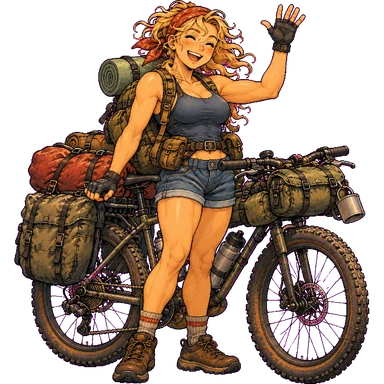
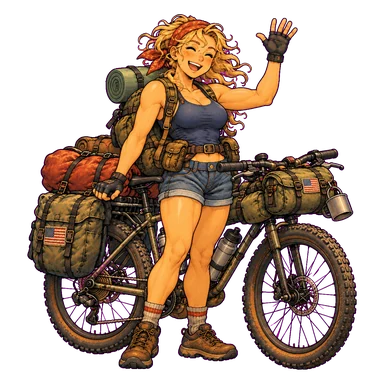
衣類に小物（サングラス・靴・ヘルメット）を追加、ハロルド卿→アーサー卿、キャミィの絵を差し替え
Claude-Session: https://claude.ai/code/session_01N9UH7aPas3bYDXNeJrASUj

diff --git a/index.html b/index.html
@@ -83,6 +83,7 @@ button:disabled{opacity:.45;cursor:not-allowed}
 .si{width:16px;height:16px;object-fit:contain}
 .card .nm{display:flex;align-items:center;gap:6px;min-width:0}
 .ci{width:28px;height:28px;flex:none;object-fit:contain}
+.slots4{display:grid;grid-template-columns:repeat(4,1fr);gap:5px;margin-bottom:8px}.slots4 .slot{border:1px dashed var(--line);border-radius:10px;min-height:76px;padding:4px 2px;display:flex;flex-direction:column;align-items:center;justify-content:center;gap:1px;text-align:center;font-size:.7rem;color:var(--muted)}.slots4 .slot.on{border:1px solid #d9a734;background:rgba(217,167,52,.12);color:var(--fg)}.slots4 .slot b{font-size:.68rem;line-height:1.2}.slots4 .slot i{font-style:normal;font-size:.62rem;color:var(--muted)}.slots4 .slot .ci{width:40px;height:40px}
 .subtabs{display:flex;gap:5px;flex-wrap:wrap;margin:0}
 .subtabs button{flex:1 1 0;min-width:22%;min-height:50px;padding:4px 2px;font-size:var(--fs-s);white-space:nowrap;display:flex;flex-direction:column;align-items:center;justify-content:center;gap:1px}
 .subtabs.pg button{min-height:38px;flex-direction:row;font-size:var(--fs-m);min-width:20%}
@@ -418,7 +419,7 @@ html:has(.overlay:not([hidden]):not(#ov-tut)),body:has(.overlay:not([hidden]):no
   <section class="panel" id="p-gear" hidden>
     <div class="subtabs" id="gear-tabs"><button data-sub="bike" aria-selected="true"><img loading="lazy" class="wi" src="img/icon_bike.webp" width="128" height="128" alt="">自転車</button><button data-sub="cloth" aria-selected="false"><img loading="lazy" class="wi" src="img/icon_cloth.webp" width="128" height="128" alt="">衣類</button><button data-sub="part" aria-selected="false"><img loading="lazy" class="wi" src="img/icon_part.webp" width="128" height="128" alt="">パーツ</button></div>
     <div class="campsec" data-sub="bike"><p class="hint">持っている自転車。新しいものは「店」で買えます。</p><div class="shop" id="eq-bike"></div></div>
-    <div class="campsec" data-sub="cloth" hidden><p class="hint">持っている衣類。気温に合わせて着替えます。</p><div class="shop" id="eq-cloth"></div></div>
+    <div class="campsec" data-sub="cloth" hidden><p class="hint">持っている衣類。ウェアは気温に合わせて着替えます。小物（目・足・頭）と合わせて4枠まで付けられます。</p><div class="shop" id="eq-cloth"></div></div>
     <div class="campsec" data-sub="part" hidden><p class="hint" id="slot-hint">パーツは4つまで付けられます。</p><div class="shop" id="eq-part"></div></div>
   </section>
 
@@ -794,7 +795,7 @@ const foodMax=()=>FOOD_MAX+(S&&S.parts?S.parts.reduce((a,x)=>a+((PARTS.find(p=>p
 const NAGANO={price:2000,max:3,hp:60,mp:30};
 const NAGANO_X={price:10000,max:1};// 長野県の補給食【極】（買える・1個まで・体力と気力が全回復）
 const GUMMY={max:3,hp:NAGANO.hp,mp:NAGANO.mp};// 着色料いっぱいのグミ（キャミィからの贈り物。赤マムシドリンク風の長野県の補給食と同じ効果。買えない）
-const TEA={max:3,hp:NAGANO.hp,mp:NAGANO.mp};// 英国産の紅茶（ハロルド卿からの贈り物。長野県の補給食と同じ効果。買えない）
+const TEA={max:3,hp:NAGANO.hp,mp:NAGANO.mp};// 英国産の紅茶（アーサー卿からの贈り物。長野県の補給食と同じ効果。買えない）
 const DANGO={max:3,hp:25,mp:10};// 文化祭の団子（ライバルからの贈り物。補給食と同じ効果。買えない）
 const BIKES=[
  {id:'mama',name:'ママチャリ',price:0,climb:2,rough:2,cruise:2,wx:3},
@@ -815,6 +816,18 @@ const CLOTHES=[
  {id:'winter',name:'冬ウェア',price:25000,lo:-10,hi:10},
  {id:'all',name:'オールシーズン高級ウェア',price:60000,lo:-5,hi:32},
 ];
+// 小物（衣類タブで装備。ウェアと合わせて4枠。目・足・頭は種類ごとに1つだけ）t: eye/foot/head、hit: 戦闘で受けるダメージ-
+const ACC=[
+ {id:'sg1',name:'サングラス',price:4000,t:'eye',wx:1},
+ {id:'sg2',name:'高性能サングラス',price:20000,t:'eye',wx:2,comfy:1},
+ {id:'shoe1',name:'サイクリングシューズ',price:18000,t:'foot',cruise:1,climb:1},
+ {id:'shoe2',name:'MTBシューズ',price:20000,t:'foot',rough:1,climb:1},
+ {id:'shoe3',name:'登山靴',price:30000,t:'foot',rough:2,wx:1},
+ {id:'hel1',name:'ヘルメット',price:8000,t:'head',hit:1},
+ {id:'hel2',name:'軽量ヘルメット',price:45000,t:'head',hit:1,climb:1},
+];
+const ACC_T={eye:'目',foot:'足',head:'頭'},ACC_SLOTS=4;// ウェア1＋小物3＝4枠
+const accOn=()=>(S.acc||[]).map(i=>ACC.find(a=>a.id===i)).filter(Boolean);
 const PARTS=[
  // ホイール：1つだけ装備できる（買うと入れ替わる）。カスタム（+段数）はできる
  {id:'tire',name:'MTB用ホイール',price:12000,rough:2,wh:1},
@@ -963,7 +976,7 @@ function title(f){let t=TITLES[0][1];for(const [n,s] of TITLES) if(f>=n) t=s;ret
 
 // ---------- state ----------
 let S=null;
-function newGame(HOME){INTRIP=false;LASTSAVE='';TS=null;trip=null;B=null;$('pop').hidden=true;S={turn:1,fame:0,stay:0,money:DEBUG?10000000:30000,hp:100,mp:100,home:HOME,loc:HOME,bike:'mama',cloth:'plain',parts:[],gear:{fire:null,shelter:null,tarp:null},owned:{bikes:['mama'],cloth:['plain'],parts:[],gear:[]},
+function newGame(HOME){INTRIP=false;LASTSAVE='';TS=null;trip=null;B=null;$('pop').hidden=true;S={turn:1,fame:0,stay:0,money:DEBUG?10000000:30000,hp:100,mp:100,home:HOME,loc:HOME,bike:'mama',cloth:'plain',acc:[],parts:[],gear:{fire:null,shelter:null,tarp:null},owned:{bikes:['mama'],cloth:['plain'],acc:[],parts:[],gear:[]},
   visits:Array(47).fill(0),fam:Array(47).fill(false),log:[],tl:[],forecast:null,sel:HOME,food:0,food2:0,food3:0,dango:0,gummy:0,tea:0,penId:'pen_tabi',avId:'av_hero',inf:{},plus:{},stats:{wins:0,posts:0,bestQ:0,tph:0,ev:0,tc:0,en:{}}};
   rollForecast();log(`春の週末。${PREF[HOME].name}の自宅から旅が始まる。`);save();}
 // ---------- セーブ ----------
@@ -995,11 +1008,12 @@ function load(){try{const s=localStorage.getItem('charicamp');if(!s)return null;
   o.owned=o.owned&&typeof o.owned==='object'?o.owned:{};
   o.owned.bikes=(Array.isArray(o.owned.bikes)?o.owned.bikes:[]).filter(x=>has(BIKES,x));if(!o.owned.bikes.includes('mama'))o.owned.bikes.unshift('mama');
   o.owned.cloth=(Array.isArray(o.owned.cloth)?o.owned.cloth:[]).filter(x=>has(CLOTHES,x));if(!o.owned.cloth.includes('plain'))o.owned.cloth.unshift('plain');
+  o.owned.acc=(Array.isArray(o.owned.acc)?o.owned.acc:[]).filter(x=>has(ACC,x));
   o.owned.parts=(Array.isArray(o.owned.parts)?o.owned.parts:[]).filter(x=>has(PARTS,x));
   o.owned.gear=(Array.isArray(o.owned.gear)?o.owned.gear:[]).filter(x=>has(GEAR_ITEMS,x));
   const pl=o.plus&&typeof o.plus==='object'?o.plus:{};o.plus={};for(const id of [...o.owned.bikes,...o.owned.parts]){const v=num(pl[id],0,0,3);if(v)o.plus[id]=v;}
   if(!o.owned.bikes.includes(o.bike))o.bike=o.owned.bikes[0];if(!o.owned.cloth.includes(o.cloth))o.cloth=o.owned.cloth[0];
-  for(const k of ['bikes','cloth','parts','gear'])o.owned[k]=[...new Set(o.owned[k])];
+  for(const k of ['bikes','cloth','acc','parts','gear'])o.owned[k]=[...new Set(o.owned[k])];{const seen=new Set();o.acc=(Array.isArray(o.acc)?o.acc:[]).filter(x=>{const a=ACC.find(z=>z.id===x);if(!a||!o.owned.acc.includes(x)||seen.has(a.t))return false;seen.add(a.t);return true;}).slice(0,ACC_SLOTS-1);}
   o.parts=[...new Set((Array.isArray(o.parts)?o.parts:[]).filter(x=>o.owned.parts.includes(x)))];{const seen=new Set();o.parts=o.parts.filter(x=>{const g=xg(PARTS.find(p=>p.id===x));if(!g)return true;if(seen.has(g))return false;seen.add(g);return true;});}o.parts=o.parts.slice(0,partSlots(o.bike,o.gear));
   const g=o.gear&&typeof o.gear==='object'?o.gear:{};o.gear={};for(const k of ['fire','shelter','tarp'])o.gear[k]=GEAR_ITEMS.some(x=>x.slot===k&&x.id===g[k]&&o.owned.gear.includes(x.id))?g[k]:null;
   if(o.gear.fire==='fire4'&&o.gear.shelter!=='sh5')o.gear.fire=null;
@@ -1029,7 +1043,8 @@ function calLabel(t){const c=calendar(t);return `${c.year}年目${c.month}月第
 function bikeStats(){const b=BIKES.find(x=>x.id===S.bike);const st={climb:b.climb,rough:b.rough,cruise:b.cruise,wx:b.wx,photo:0,comfy:0,fold:!!b.fold};
   const bl=plv(b.id);if(bl)for(const k of bikeBoost(b))st[k]+=bl;// カスタム：得意な上位2能力が+段数
   const gx=gearFx();st.climb+=gx.climb;st.cruise+=gx.cruise;// DCF（超軽量）のギア
-  for(const pid of S.parts){const p=PARTS.find(x=>x.id===pid);for(const k of ['climb','rough','cruise','wx','photo','comfy']) if(p[k]) st[k]+=p[k]+plv(pid);}return st;}
+  for(const pid of S.parts){const p=PARTS.find(x=>x.id===pid);for(const k of ['climb','rough','cruise','wx','photo','comfy']) if(p[k]) st[k]+=p[k]+plv(pid);}
+  for(const a of accOn())for(const k of ['climb','rough','cruise','wx','comfy'])if(a[k])st[k]+=a[k];return st;}
 // ---------- カスタム（自転車・パーツを+1〜+3に改造） ----------
 const STATJ={climb:'登坂',rough:'悪路',cruise:'巡航',wx:'耐候',photo:'写真',comfy:'気力消費'};
 // 折りたたみ（チタン製折りたたみ自転車・分割式チタン製グラベルロード）専用の「輪行カスタム」：輪行費の割合が段階的に下がる（素は半額）
@@ -1237,21 +1252,22 @@ function renderDetail(){const p=PREF[S.sel],f=S.forecast[p.id],ti=travelInfo(p),
 function renderList(){$('sitelist').innerHTML=PREF.map(p=>`<button data-id="${p.id}" class="${p.id===S.loc?'cur':''}">${p.name} ${S.fam[p.id]?'🏅':S.visits[p.id]?'✔'.repeat(Math.min(needV(p),S.visits[p.id])):''}<small>${p.site}</small></button>`).join('');
   $('sitelist').querySelectorAll('button').forEach(b=>b.onclick=()=>{S.sel=+b.dataset.id;renderSel();$('map').scrollIntoView({block:'start'});});}
 
-function owns(kind,id){return S.owned[kind==='bike'?'bikes':kind==='cloth'?'cloth':kind==='gear'?'gear':'parts'].includes(id);}
-function isEq(kind,item){return kind==='bike'?S.bike===item.id:kind==='cloth'?S.cloth===item.id:kind==='gear'?S.gear[item.slot]===item.id:S.parts.includes(item.id);}
+function owns(kind,id){return S.owned[kind==='bike'?'bikes':kind==='cloth'?'cloth':kind==='acc'?'acc':kind==='gear'?'gear':'parts'].includes(id);}
+function isEq(kind,item){return kind==='bike'?S.bike===item.id:kind==='cloth'?S.cloth===item.id:kind==='acc'?(S.acc||[]).includes(item.id):kind==='gear'?S.gear[item.slot]===item.id:S.parts.includes(item.id);}
 // 新しいギアの絵が届くまでは、近い既存のアイコンを代わりに表示する（読み込みに失敗したときだけ切り替わる）
 const ICON_FB={};
 addEventListener('error',e=>{const i=e.target;if(i&&i.tagName==='IMG'&&i.dataset&&i.dataset.fb){const f='img/'+i.dataset.fb+'.webp';i.dataset.fb='';i.src=f;}},true);
 function card(item,kind,mode){const eq=isEq(kind,item),own=owns(kind,item.id);
   const spec=kind==='bike'?`登坂${bv(item,'climb')} 悪路${bv(item,'rough')} 巡航${bv(item,'cruise')} 耐候${bv(item,'wx')}${item.fold?` 輪行費×${RK_RATE[rkLv(item.id)]}`:''}`:
    kind==='cloth'?`快適 ${item.lo}℃〜${item.hi}℃`:
+   kind==='acc'?`【${ACC_T[item.t]}】`+['climb','rough','cruise','wx','comfy'].filter(k=>item[k]).map(k=>STATJ[k]+(k==='comfy'?'-':'+')+item[k]).concat(item.hit?[`被ダメージ-${item.hit}`]:[]).join(' ')+`（${ACC_T[item.t]}は1つだけ装備）`:
    kind==='gear'?[item.mp?`気力+${item.mp}`:'',item.hp?`体力+${item.hp}`:'',item.photo?`写真+${item.photo}`:'',item.guard?`雨ガード${Math.round(item.guard*100)}%`:'',item.climb?`登坂+${item.climb}`:'',item.cruise?`巡航+${item.cruise}`:'',item.winter?'冬のみ有効':'',item.req?`要：${(GEAR_ITEMS.find(x=>x.id===item.req)||{}).name}`:''].filter(Boolean).join(' '):
    (item.comp?'コンポ（1つだけ装備） ':'')+(item.wh?'ホイール（1つだけ装備） ':'')+(item.rack?`ラック（1つだけ装備） 補給食の上限+${item.food}`:'')+(item.front?'フロントキャリア（1つだけ装備） ':'')+(item.gift?'インフルエンサーからの贈り物 ':'')+(item.gift&&item.food?`補給食の上限+${item.food} `:'')+(item.anti?(item.anti==='bear'?'クマから受ける被害が半分':'暴走車・暴走バイクから受ける被害が半分'):Object.entries(item).filter(([k])=>['climb','rough','cruise','wx','photo','comfy'].includes(k)).map(([k,v])=>({climb:'登坂',rough:'悪路',cruise:'巡航',wx:'耐候',photo:'写真',comfy:'気力消費'}[k]+(k==='comfy'?'-':'+')+v)).join(' '));
   let act='';
   if(mode==='shop'){act=own?`<span class="pill">所持</span>`:`<button data-act="buy" ${S.money>=item.price?'':'disabled'}>購入 ${yen(item.price)}</button>`;}
-  else if(eq)act=(kind==='part'||kind==='gear')?`<button data-act="unequip">外す</button>`:`<span class="pill">装備中</span>`;
+  else if(eq)act=(kind==='part'||kind==='gear'||kind==='acc')?`<button data-act="unequip">外す</button>`:`<span class="pill">装備中</span>`;
   else act=`<button data-act="equip" ${kind==='part'&&S.parts.length>=partSlots(S.bike)&&!(xg(item)&&S.parts.some(x=>xg(PARTS.find(p=>p.id===x))===xg(item)))||kind==='gear'&&item.req&&S.gear.shelter!==item.req?'disabled':''}>装備</button>`;
-  return `<div class="card ${eq?'eq':''}" data-kind="${kind}" data-id="${item.id}"><div class="name"><span class="nm"><img loading="lazy" class="ci" ${(kind==='gear'||kind==='part')&&ICON_FB[item.id]?`data-fb="${ICON_FB[item.id]}" `:''}src="img/${kind==='gear'?'icon_g_'+item.id:(kind==='part'?'part_'+item.id:kind==='cloth'?'cloth_'+item.id:'icon_bike_'+item.id)}.webp" width="28" height="28" alt="">${item.name}${(kind==='bike'||kind==='part')&&plv(item.id)?` <b>+${plv(item.id)}</b>`:''}</span>${act}</div><div class="spec">${spec}</div></div>`;}
+  return `<div class="card ${eq?'eq':''}" data-kind="${kind}" data-id="${item.id}"><div class="name"><span class="nm"><img loading="lazy" class="ci" ${kind==='acc'?'data-fb="cloth_plain" ':(kind==='gear'||kind==='part')&&ICON_FB[item.id]?`data-fb="${ICON_FB[item.id]}" `:''}src="img/${kind==='gear'?'icon_g_'+item.id:(kind==='part'?'part_'+item.id:kind==='cloth'?'cloth_'+item.id:kind==='acc'?'acc_'+item.id:'icon_bike_'+item.id)}.webp" width="28" height="28" alt="">${item.name}${(kind==='bike'||kind==='part')&&plv(item.id)?` <b>+${plv(item.id)}</b>`:''}</span>${act}</div><div class="spec">${spec}</div></div>`;}
 let PGRP='rack';// パーツ欄のタブ：rack=ラック類／comp=コンポ類／wheel=ホイール／etc=その他（残りすべて）
 const grpOf=i=>i.rack||i.front?'rack':i.comp?'comp':i.wh?'wheel':'etc';// 前後ラック／コンポ／ホイール＋タイヤ／その他（エアロバー・フェンダー・熊スプレー・カメラ等すべて）
 const PG_TABS=[['rack','ラック類'],['comp','コンポ類'],['wheel','ホイール'],['etc','その他']];
@@ -1259,6 +1275,9 @@ const pgTabs=()=>`<div class="subtabs pg">${PG_TABS.map(([g,t])=>`<button data-p
 function renderShop(){if(S.parts.length>partSlots(S.bike))S.parts=S.parts.slice(0,partSlots(S.bike));{const h=$('slot-hint');if(h)h.textContent=`パーツは${partSlots(S.bike)}つまで付けられます（自転車が高いほど増えます。DCFのテント・タープは軽いので、1つにつき+1）。`;}const lists={bike:BIKES,cloth:CLOTHES,part:PARTS};
   for(const [k,l0] of Object.entries(lists)){const l=k==='part'?l0.filter(i=>grpOf(i)===PGRP):l0,tabs=k==='part'?pgTabs():'';$('shop-'+k).innerHTML=tabs+l.filter(i=>!i.gift).map(i=>card(i,k,'shop')).join('');
     const own=l.filter(i=>owns(k,i.id));$('eq-'+k).innerHTML=tabs+(own.length?own.map(i=>card(i,k,'equip')).join(''):'<div class="hint">なし</div>');}
+  $('shop-cloth').insertAdjacentHTML('beforeend',ACC.map(i=>card(i,'acc','shop')).join(''));
+  {const on=accOn(),w=CLOTHES.find(c=>c.id===S.cloth),sl=[[w.name,'cloth_'+w.id,'ウェア'],...on.map(a=>[a.name,'acc_'+a.id,ACC_T[a.t]])];while(sl.length<ACC_SLOTS)sl.push(null);
+   $('eq-cloth').innerHTML=`<div class="slots4">${sl.map(x=>x?`<div class="slot on"><img class="ci" src="img/${x[1]}.webp" width="40" height="40" alt="" onerror="this.onerror=null;this.src='img/cloth_plain.webp'"><b>${x[0]}</b><i>${x[2]}</i></div>`:'<div class="slot"><i>あき</i></div>').join('')}</div>`+$('eq-cloth').innerHTML+ACC.filter(i=>owns('acc',i.id)).map(i=>card(i,'acc','equip')).join('');}
   for(const slot of Object.keys(GEAR)){const l=GEAR_ITEMS.filter(i=>i.slot===slot);$('shop-'+slot).innerHTML=l.map(i=>card(i,'gear','shop')).join('');
     const own=l.filter(i=>owns('gear',i.id));$('eq-'+slot).innerHTML=noneCard(slot)+own.map(i=>card(i,'gear','equip')).join('');}
   $('shop-food').innerHTML=`<div class="card"><div class="name"><span class="nm"><img loading="lazy" class="ci" src="img/icon_food.webp" width="28" height="28" alt="">補給食</span><span class="cnt${S.food?' has':''}"><b>${S.food}</b>/${foodMax()}</span><button data-food="1" ${S.money>=FOOD_PRICE&&S.food<foodMax()?'':'disabled'}>購入 ${yen(FOOD_PRICE)}</button></div><div class="spec">試練の最中に食べると体力+25 気力+10。</div></div><div class="card"><div class="name"><span class="nm"><img loading="lazy" class="ci" src="img/icon_food_nagano.webp" width="28" height="28" alt="" onerror="this.onerror=null;this.src='img/icon_food.webp'">長野県の補給食</span><span class="cnt${S.food2?' has':''}"><b>${S.food2}</b>/${NAGANO.max}</span><button data-food2="1" ${S.money>=NAGANO.price&&S.food2<NAGANO.max?'':'disabled'}>購入 ${yen(NAGANO.price)}</button></div><div class="spec">赤マムシドリンク風の元気ドリンク。体力+${NAGANO.hp} 気力+${NAGANO.mp}。</div></div><div class="card"><div class="name"><span class="nm"><img loading="lazy" class="ci" src="img/icon_food_nagano.webp" width="28" height="28" alt="" onerror="this.onerror=null;this.src='img/icon_food.webp'">長野県の補給食【極】</span><span class="cnt${S.food3?' has':''}"><b>${S.food3}</b>/${NAGANO_X.max}</span><button data-food3="1" ${S.money>=NAGANO_X.price&&S.food3<NAGANO_X.max?'':'disabled'}>購入 ${yen(NAGANO_X.price)}</button></div><div class="spec">長野県の元気ドリンクの極み。体力と気力が全回復。</div></div>`;renderForge();}
@@ -1293,11 +1312,11 @@ function noneCard(slot){const on=!S.gear[slot],[n,s]=NONE_TXT[slot];
 function shopClick(e){const pg=e.target.closest('button[data-pgrp]');if(pg){PGRP=pg.dataset.pgrp;renderShop();return;}
   const b=e.target.closest('button[data-act]');if(!b)return;const c=b.closest('.card'),kind=c.dataset.kind,id=c.dataset.id;
   if(c.dataset.none){S.gear[c.dataset.slot]=null;render();return;}
-  const list=kind==='bike'?BIKES:kind==='cloth'?CLOTHES:kind==='gear'?GEAR_ITEMS:PARTS,item=list.find(x=>x.id===id),key=kind==='bike'?'bikes':kind==='cloth'?'cloth':kind==='gear'?'gear':'parts';
+  const list=kind==='bike'?BIKES:kind==='cloth'?CLOTHES:kind==='acc'?ACC:kind==='gear'?GEAR_ITEMS:PARTS,item=list.find(x=>x.id===id),key=kind==='bike'?'bikes':kind==='cloth'?'cloth':kind==='acc'?'acc':kind==='gear'?'gear':'parts';
   if(b.dataset.act==='buy'){if(S.money<item.price)return;askPay(`「${item.name}」を購入しますか？`,item.price,()=>{S.money-=item.price;S.owned[key].push(id);log(`${item.name}を購入（${yen(item.price)}）`);equipIt();});return;}
   equipIt();
-  function equipIt(){if(b.dataset.act==='buy'||b.dataset.act==='equip'){if(kind==='bike'){S.bike=id;S.parts=S.parts.slice(0,partSlots(id));}else if(kind==='cloth')S.cloth=id;else if(kind==='gear'){if(item.req&&S.gear.shelter!==item.req)log(`${item.name}は${(GEAR_ITEMS.find(x=>x.id===item.req)||{}).name}を装備していないと使えない`);else S.gear[item.slot]=id;}else{if(xg(item))S.parts=S.parts.filter(x=>xg(PARTS.find(p=>p.id===x))!==xg(item));if(S.parts.length<partSlots(S.bike))S.parts.push(id);}}
-  if(b.dataset.act==='unequip'){if(kind==='gear')S.gear[item.slot]=null;else S.parts=S.parts.filter(x=>x!==id);}
+  function equipIt(){if(b.dataset.act==='buy'||b.dataset.act==='equip'){if(kind==='bike'){S.bike=id;S.parts=S.parts.slice(0,partSlots(id));}else if(kind==='cloth')S.cloth=id;else if(kind==='acc'){S.acc=(S.acc||[]).filter(x=>ACC.find(a=>a.id===x).t!==item.t);S.acc.push(id);}else if(kind==='gear'){if(item.req&&S.gear.shelter!==item.req)log(`${item.name}は${(GEAR_ITEMS.find(x=>x.id===item.req)||{}).name}を装備していないと使えない`);else S.gear[item.slot]=id;}else{if(xg(item))S.parts=S.parts.filter(x=>xg(PARTS.find(p=>p.id===x))!==xg(item));if(S.parts.length<partSlots(S.bike))S.parts.push(id);}}
+  if(b.dataset.act==='unequip'){if(kind==='gear')S.gear[item.slot]=null;else if(kind==='acc')S.acc=(S.acc||[]).filter(x=>x!==id);else S.parts=S.parts.filter(x=>x!==id);}
   render();}}
 for(const tid of ['camp-tabs','gear-tabs'])$(tid).addEventListener('click',e=>{const b=e.target.closest('button[data-sub]');if(!b)return;const pn=$(tid).parentElement;$(tid).querySelectorAll('button').forEach(x=>x.setAttribute('aria-selected',x===b));pn.querySelectorAll('.campsec').forEach(c=>c.hidden=c.dataset.sub!==b.dataset.sub);});
 for(const id of ['p-gear','p-camp','p-shop'])$(id).addEventListener('click',shopClick);
@@ -1323,7 +1342,7 @@ function postHtml(p){return `<article class="post"><div class="av">${p.av?`<img 
 // ヒヨッターの投稿には金額を出さない（購入・輪行・カスタム・インセンティブなど、どの行でも（¥…）と ¥… を外す）
 function snsText(x){x=x.replace(/（[^）]*¥[^）]*）/g,'');if(/編集長からインセンティブ/.test(x))return 'ヒヨッター編集長からインセンティブをいただきました！ありがとうございます🙏';if(/^自宅で休養/.test(x))return '今週は自宅でゆっくり休養🛌';if(/強制帰宅/.test(x))return 'お金が尽きて、家に帰ることに…💸';return x.replace(/\s*¥[\d,]+/g,'').replace(/[。！]?\s*フォロワー[+\-−][^\s。！]*/g,m=>/^！/.test(m)?'！':'');}
 // 購入した商品の絵（ショップのカードと同じ絵）。名前から探す
-function itemArt(nm){let it;if(it=BIKES.find(z=>z.name===nm))return ['img/icon_bike_'+it.id+'.webp','',nm];if(it=CLOTHES.find(z=>z.name===nm))return ['img/cloth_'+it.id+'.webp','',nm];if(it=GEAR_ITEMS.find(z=>z.name===nm))return ['img/icon_g_'+it.id+'.webp',ICON_FB[it.id]||'',nm];if(it=PARTS.find(z=>z.name===nm))return ['img/part_'+it.id+'.webp',ICON_FB[it.id]||'',nm];return null;}
+function itemArt(nm){let it;if(it=BIKES.find(z=>z.name===nm))return ['img/icon_bike_'+it.id+'.webp','',nm];if(it=CLOTHES.find(z=>z.name===nm))return ['img/cloth_'+it.id+'.webp','',nm];if(it=ACC.find(z=>z.name===nm))return ['img/acc_'+it.id+'.webp','cloth_plain',nm];if(it=GEAR_ITEMS.find(z=>z.name===nm))return ['img/icon_g_'+it.id+'.webp',ICON_FB[it.id]||'',nm];if(it=PARTS.find(z=>z.name===nm))return ['img/part_'+it.id+'.webp',ICON_FB[it.id]||'',nm];return null;}
 // すべての投稿に「いいね」とコメントを付ける（旅の投稿のように返信がまだ無いものは、内容に合うファンの一言を足す）。投稿ごとに固定
 const ENG=[[/遅刻|間に合わず|暗くなっちゃった|リベンジ/,['どんまい！次があります💪','無事ならOK！ゆっくり休んで','次はいけますよ！応援してます📣','暗くなる前の判断、えらい！']],[/スポンサー|がつきました|支援/,['おめでとうございます🎉','スポンサーがつくなんてすごい！','これからの旅も楽しみです！']],[/ツチノコ/,['ツチノコ！？すごい！！','写真ください！🐍','見間違いじゃないですか？笑']],[/購入|カスタム|付けた/,['いい買い物ですね！','これは気になる…！','旅が楽しみになりますね🚴','おお、新装備！','似合いそう✨','レビューお願いします！']],[/休養|ゆっくり|帰宅|家に帰る/,['しっかり休んでくださいね☺','休むのも旅のうち🛌','ゆっくり充電！','無理しないで！','おかえりなさい🏠']],[/輪行/,['輪行も旅の知恵ですね🚃','電車旅もいいですよね！','駅弁も楽しんで〜']],[/映え勝負|ライバル|先に/,['バトルアツい！🔥','次の勝負も楽しみです','見応えありました👏']],[/届きました|🎁/,['うらやましい…🎁','いい贈り物ですね！','大事に使ってあげてください☺']],[/./,['応援してます📣','いいですね〜☺','ナイス旅！','次も楽しみにしています🚴','つぎの更新も待ってます！']]];
 function engage(a){return a.map(it=>{const p=it.p,h=hs(it.t,it.r,[...p.text].reduce((x,c)=>x+c.charCodeAt(0),0));
@@ -1565,7 +1584,7 @@ const INF=[
   turn:['今週もマウンテンバイクで元気に走るデース！','荷物は多いけど、全部必要デース！','日本のキャンプ場、最高デース！','コーヒーを淹れて、ひと休みデース☕','タイヤが太いと、どこでも走れるデース！'],
   rep:{hi:['ワオ！　すごい景色デース！！','この一枚、最高デース！　ワタシも行きたいデース！','カッコいいデース！　完敗デース！'],mid:['いい旅デース！　ワタシも負けないデース！','素敵な写真デース！','次の投稿も楽しみデース！'],lo:['雨でも楽しむのがコツデース！','ドンマイデース！　次があるデース！','元気を出すデース！'],late:['夜道は気をつけるデース！','無事でよかったデース！　ゆっくり休むデース！']},
   gift:'何度も勝負してくれて、ありがとうデース！　日本のグミ、色がすごいデース！　3個あげるデース！'},
- {id:'harold',name:'ハロルド卿',handle:'harold_minivelo',img:'img/inf_harold.webp',av:'img/inf_harold_s.webp',tea:3,
+ {id:'harold',name:'アーサー卿',handle:'arthur_minivelo',img:'img/inf_harold.webp',av:'img/inf_harold_s.webp',tea:3,
   intro:'ごきげんよう。同じ景色を狙っておいででしたか',win:'お見事。紅茶を一杯、いかがです',lose:'この景色は、先にいただきましたよ。失礼',
   turn:['今週は小さな車輪で、ゆるりと参ります','紅茶を淹れて、ひと息つくのが旅の楽しみでしてね','ツイードは、走ると意外に暖かいのですよ','荷物は多いですが、すべて必要なものばかりです','旅の途中で見かけたら、ぜひお茶をご一緒に'],
   rep:{hi:['実に見事な景色ですな。一枚いただきたいほどです','この眺めには、帽子を取らねばなりますまい','素晴らしい。紅茶が進みます'],mid:['良い旅ですな。道中、ご無事で','趣のある一枚です','次の景色も楽しみにしておりますよ'],lo:['雨もまた、旅の趣というものです','焦らず、ゆるりと参りましょう','紅茶でも飲んで、気を取り直しなされ'],late:['日が暮れました。お気をつけて','ご無事で何より。ゆっくりお休みなさい']},
@@ -1702,7 +1721,7 @@ function cmd(k){if(!B||!trip||$('ov-battle').hidden||B.hp<=0||trip.late)return;
   const tm=NEXT[B.next][1]*B.cut;
   let et='';if(B.kind==='rival'){if(tm<=0)et='ライバルの投稿は伸びなかった。';else{const l=Math.max(1,Math.round(floss(20,.03)*tm));S.fame=Math.max(0,S.fame-l);et=`ライバルの投稿がバズった。フォロワー-${fol(l)}`;}}
   else if(tm<=0)et=`${B.e.name}をうまくやり過ごした。`;
-  else{const st=bikeStats();const red=['rain','snow','typhoon','heat'].includes(B.kind)?Math.min(4,Math.floor(st.wx/2)):0;const d=Math.max(1,Math.round((B.atk+rnd(-2,2)-red)*tm));S.hp-=d;et=`${HIT[B.kind]||B.e.name}…体力-${d}`;
+  else{const st=bikeStats();const red=(['rain','snow','typhoon','heat'].includes(B.kind)?Math.min(4,Math.floor(st.wx/2)):0)+accOn().reduce((n,a)=>n+(a.hit||0),0);const d=Math.max(1,Math.round((B.atk+rnd(-2,2)-red)*tm));S.hp-=d;et=`${HIT[B.kind]||B.e.name}…体力-${d}`;
     if(B.e.mp){const m=Math.max(1,Math.round(B.e.mp*Math.min(1,tm)));S.mp-=m;et+=` 気力-${m}`;}}
   $('battle-box').classList.remove('shake');void $('battle-box').offsetWidth;$('battle-box').classList.add('shake');
   if(tm>0)setTimeout(()=>playSE('se_damage'),180);B.turn++;B.next=rollNext();
@@ -1798,7 +1817,7 @@ addEventListener('pagehide',save);
 // 開きっぱなしのタブが古いコードのまま保存し直して、新しい保存項目を失うのを防ぐ。
 // 実行中のコードに埋め込んだ版の識別子 APP_V と、いま配信されている index.html の APP_V を比べる（最初に取れた配信内容を「実行中の版」の代わりにしない）。
 // ★ APP_V は index.html の内容から計算する。index.html を変えたら `node qa/stamp.cjs` で更新する（忘れると監査テストが失敗する）。
-const APP_V='b3b3cb2f6f4e';
+const APP_V='7e491ba30100';
 // 旅・戦闘・結果画面（INTRIP）の間は、save() が保存を見送るので、再読み込みすると進行が巻き戻る。旅が終わったあとも trip / B には前回の値が残るため、これらは見ない
 const UPD={pending:'',busy:false,scheduled:false,last:0,every:600000,quiet:600000,timeout:15000,reloadedAt:0,note:null,timer:0,
  safe:()=>!INTRIP,

diff --git a/qa/browser_review.py b/qa/browser_review.py
@@ -73,7 +73,7 @@ with sync_playwright() as pw:
  rec('viewer_all_click_and_enemy',page.evaluate('''()=>{const $=id=>document.getElementById(id);let n=0;for(const d of qa.INF){document.querySelector('img[data-inf="'+d.id+'"]').click();if($('inf-img').getAttribute('src')!==d.img)throw Error('image');$('inf-view').click();if(!$('inf-view').hidden)throw Error('close');n++}document.querySelector('[data-trs=old]').click();const en=document.querySelector('#achlist .n[data-en]');en.click();return {rivals:n,enemyOpened:!$('ov-sight').hidden,infHidden:$('inf-view').hidden}}'''))
  boot()
  rec('rivals_all_regions',page.evaluate('''()=>{const seen=new Set;for(const p of qa.PREF){const pool=qa.infPool(p);for(const d of qa.INF){const should=(!d.reg||d.reg===p.region)&&(!d.pref||d.pref===p.name);if(pool.includes(d)!==should)throw Error(p.name+d.id)}for(let i=0;i<pool.length;i++){qa.trip={p,enc:['rival'],i:0,late:false,sec:10,rk:1000};Math.random=()=>((i+.1)/pool.length);qa.startBattle('rival');seen.add(qa.B.inf)}}return {regions:qa.PREF.length,selected:[...seen]}}'''))
- rec('rival_gifts_roundtrip',page.evaluate('''()=>{qa.newGame(12);const before=JSON.stringify(qa.S.owned),dango=qa.S.dango;for(const id of ['cammy','harold'])qa.infSt(id).w=3;const once=qa.giftYear(),twice=qa.giftYear();qa.save();const L=qa.load();return {once,twice,noItems:before===JSON.stringify(qa.S.owned)&&dango===qa.S.dango,flags:[L.inf.cammy.g,L.inf.harold.g],feed:qa.feedItems().filter(x=>['cammy_mtb','harold_minivelo'].includes(x.p.id)).map(x=>x.p.text)}}'''))
+ rec('rival_gifts_roundtrip',page.evaluate('''()=>{qa.newGame(12);const before=JSON.stringify(qa.S.owned),dango=qa.S.dango;for(const id of ['cammy','harold'])qa.infSt(id).w=3;const once=qa.giftYear(),twice=qa.giftYear();qa.save();const L=qa.load();return {once,twice,noItems:before===JSON.stringify(qa.S.owned)&&dango===qa.S.dango,flags:[L.inf.cammy.g,L.inf.harold.g],feed:qa.feedItems().filter(x=>['cammy_mtb','arthur_minivelo'].includes(x.p.id)).map(x=>x.p.text)}}'''))
  rec('old_four_rivals_and_replies',page.evaluate('''()=>{qa.newGame(12);const raw=JSON.parse(qa.pack());raw.inf=Object.fromEntries(qa.INF.slice(0,4).map(d=>[d.id,{w:2,e:4,g:1}]));localStorage.charicamp=JSON.stringify(raw);qa.S=qa.load();for(const d of qa.INF.slice(0,4))if(qa.infSt(d.id).w!==2||qa.infSt(d.id).g!==1)throw Error('old rival');for(const id of ['cammy','harold'])if(qa.infSt(id).w!==0||qa.infSt(id).g!==0)throw Error('new rival default');qa.save();const L=qa.load();if(Object.keys(L.inf).length!==6)throw Error('roundtrip');const seen=new Set();for(const band of ['hi','mid','lo','late'])for(let h=0;h<4096;h++){const rp=qa.infRp(h,band,100),d=qa.INF.find(d=>d.handle===rp[1]);if(!d||!d.rep[band].includes(rp[2]))throw Error('reply');seen.add(d.id)}if(seen.size!==6)throw Error('reply coverage');let events=0;for(const p of qa.PREF){qa.S.loc=p.id;const pool=qa.infPool(p);for(let i=0;i<pool.length;i++){let n=0;Math.random=()=>[0,(i+.1)/pool.length,0][n++%3];qa.setTS({});qa.rollInf();if(!qa.S.log[0].endsWith('INFEV@'+pool[i].id+'@0'))throw Error('event');events++}}return {replies:seen.size,events}}'''))
  boot()
  for mode in ['missing','reject','pending','throw']:
